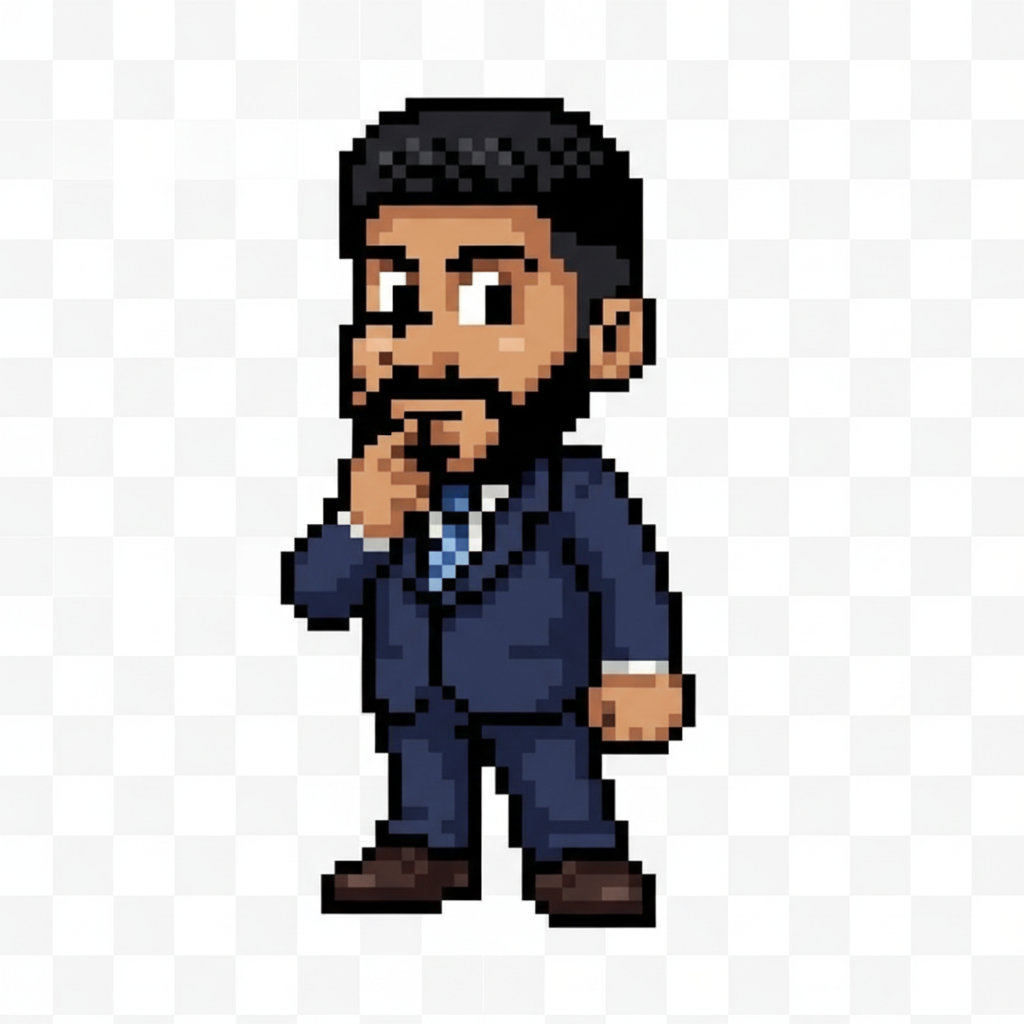
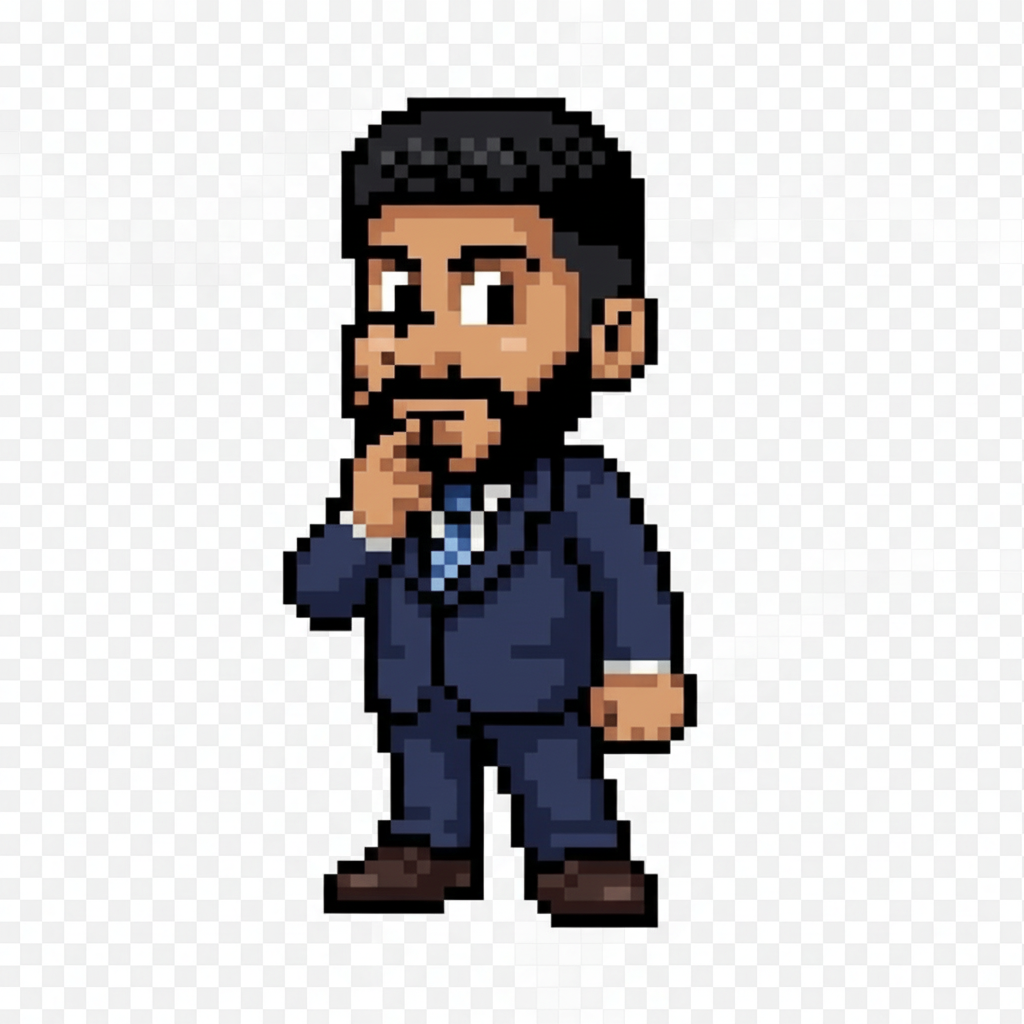
Changes

diff --git a/src/components/portfolio/HeroSection.tsx b/src/components/portfolio/HeroSection.tsx
@@ -205,32 +205,12 @@ const HeroSection = () => {
         </div>
       </motion.div>
 
-      {/* Pixel character - walking pose */}
+      {/* Character pose - left side */}
       <motion.div 
-        className="absolute bottom-20 right-[12%] sm:right-[16%] z-[7] hidden md:block"
-        initial={{ x: 50, opacity: 0 }}
-        animate={{ x: 0, opacity: 1 }}
-        transition={{ delay: 1.8, duration: 0.8 }}
-      >
-        <motion.img 
-          src={anirudhCharPointing} 
-          alt="Anirudh pixel character" 
-          className="w-36 sm:w-44 lg:w-52 pointer-events-none"
-          style={{ 
-            imageRendering: "pixelated",
-            filter: "drop-shadow(6px 6px 0 hsla(25, 60%, 15%, 0.6))",
-          }} 
-          animate={{ y: [0, -12, 0] }} 
-          transition={{ duration: 1.5, repeat: Infinity, ease: "easeInOut" }} 
-        />
-      </motion.div>
-
-      {/* Second character pose - left side accent */}
-      <motion.div 
-        className="absolute bottom-24 left-[6%] sm:left-[10%] z-[7] hidden xl:block"
+        className="absolute bottom-24 left-[6%] sm:left-[10%] z-[7] hidden lg:block"
         initial={{ x: -50, opacity: 0 }}
         animate={{ x: 0, opacity: 1 }}
-        transition={{ delay: 2.2, duration: 0.8 }}
+        transition={{ delay: 1.8, duration: 0.8 }}
       >
         <motion.img 
           src={anirudhCharThinking} 
@@ -239,6 +219,7 @@ const HeroSection = () => {
           style={{ 
             imageRendering: "pixelated",
             filter: "drop-shadow(6px 6px 0 hsla(25, 60%, 15%, 0.6))",
+            background: "transparent",
           }} 
           animate={{ y: [0, -8, 0] }} 
           transition={{ duration: 2, delay: 0.5, repeat: Infinity, ease: "easeInOut" }} 
